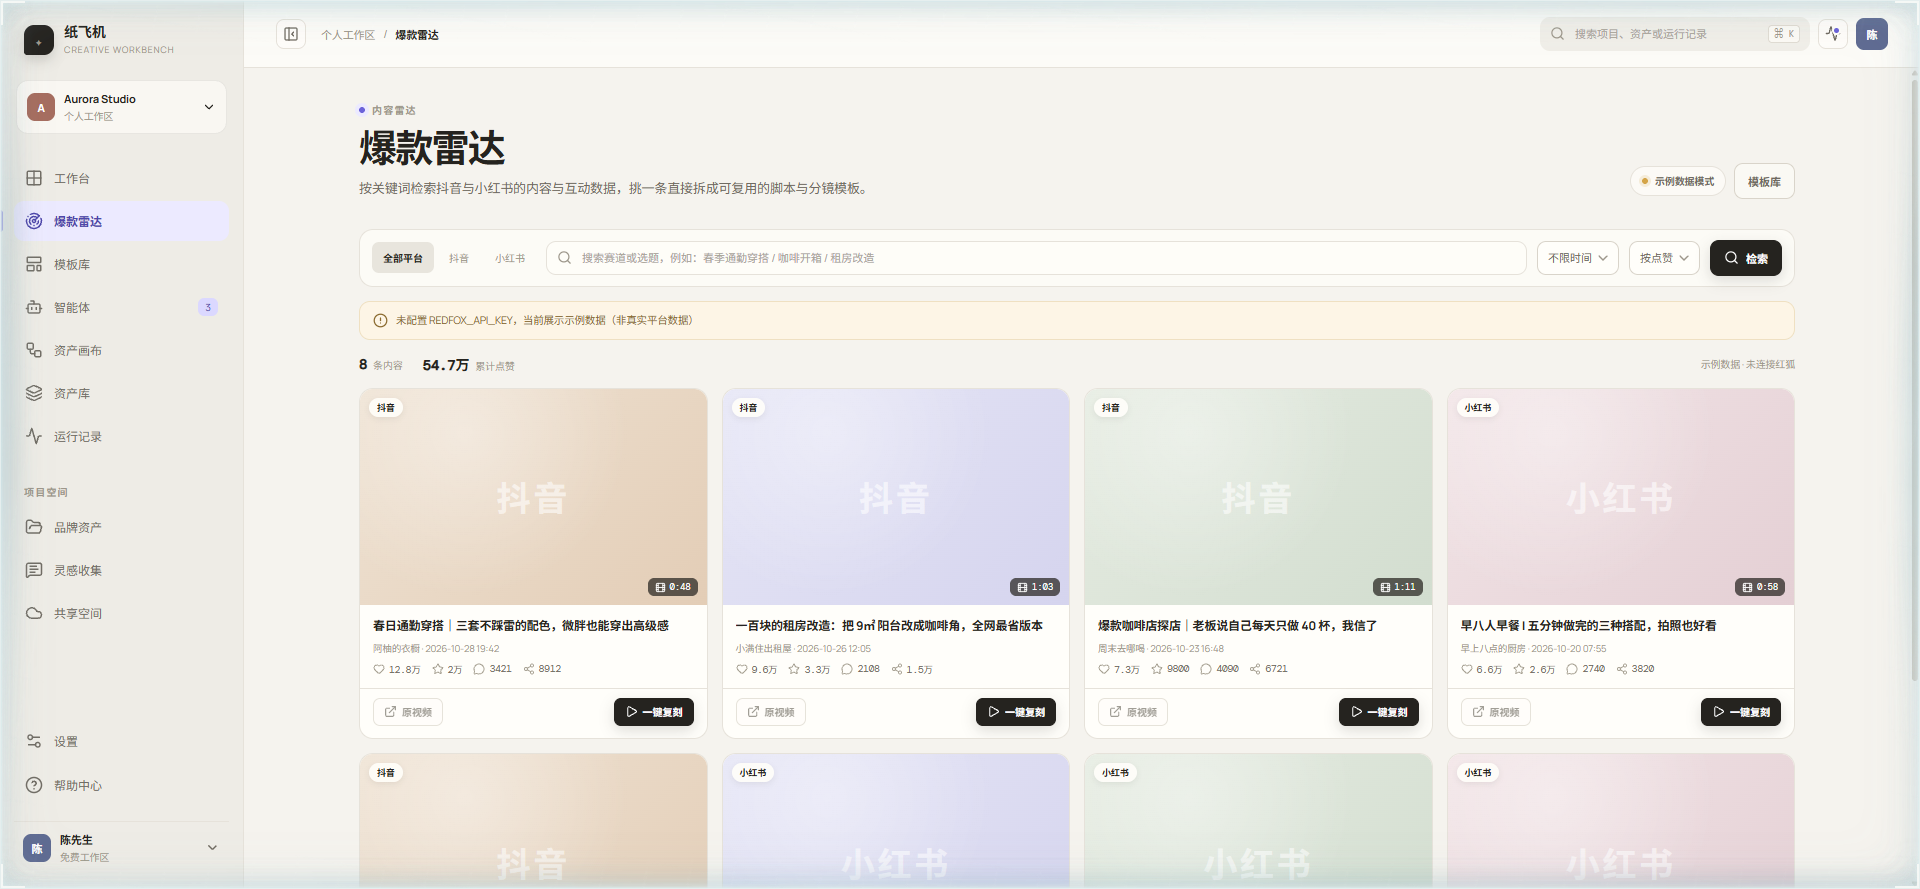
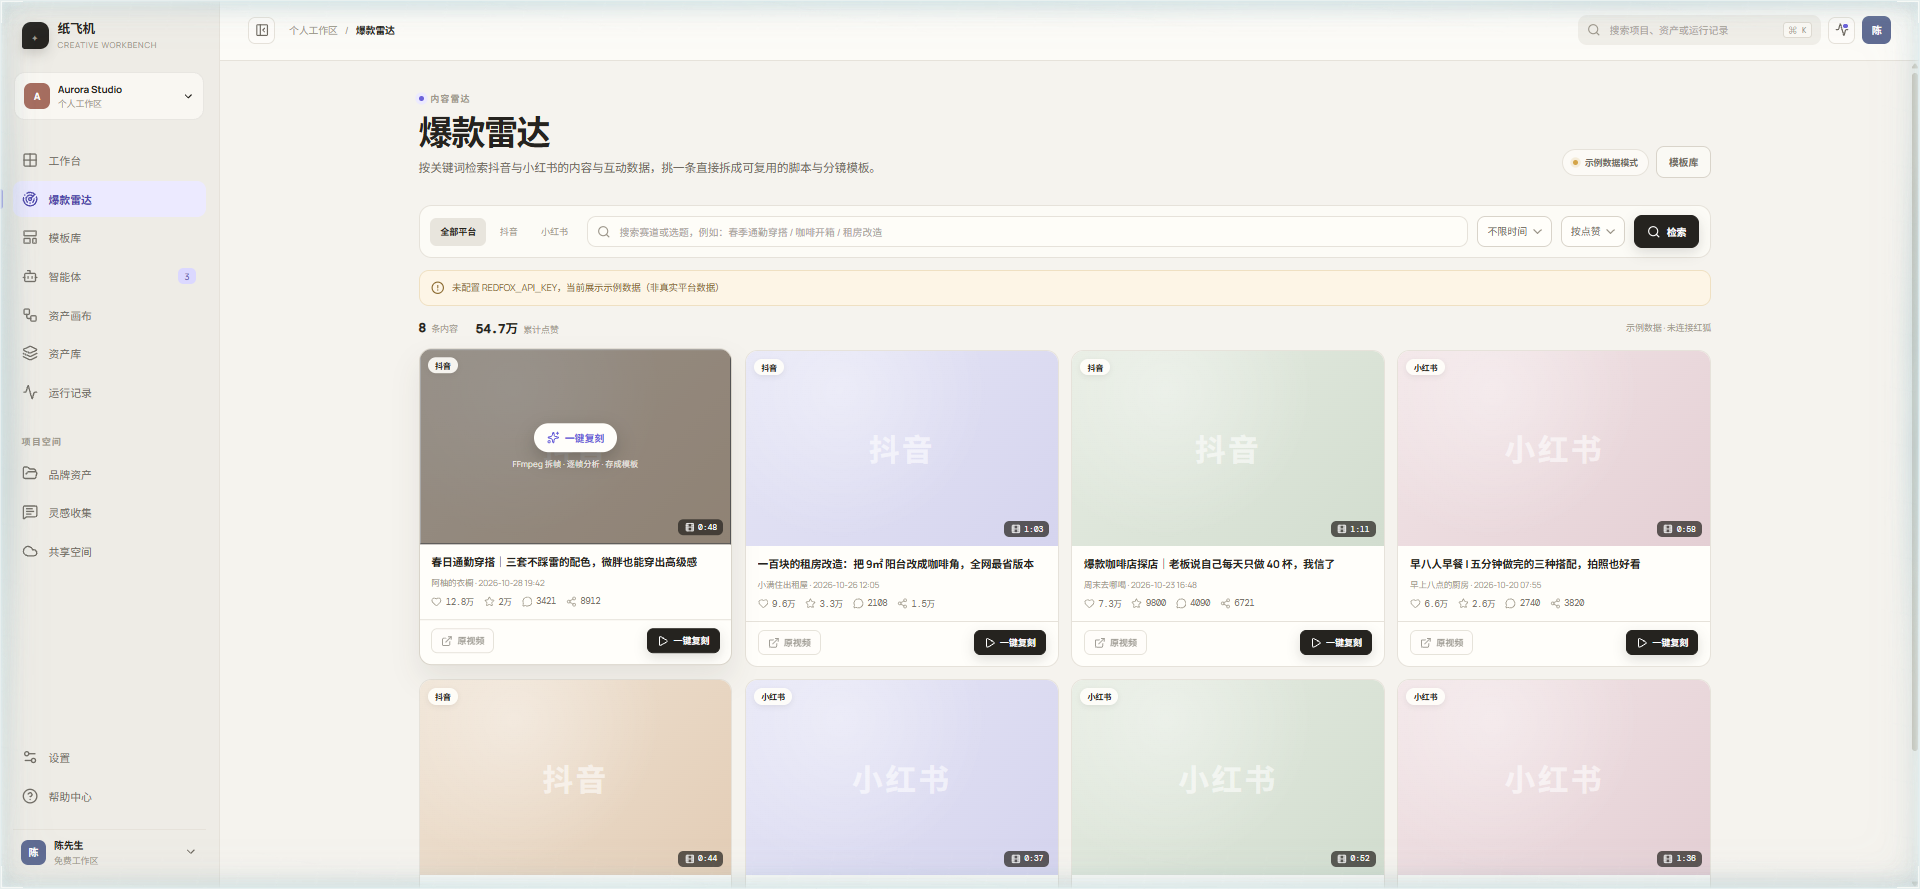
docs: 换成生产构建下的真实截图（悬停复刻、复刻弹窗）

diff --git a/README.md b/README.md
@@ -10,6 +10,8 @@
 
 **1. 爆款雷达**：按平台（抖音 / 小红书 / 全部）、关键词、时间范围检索，卡片展示点赞 / 收藏 / 评论 / 分享与时长；鼠标移到封面直接出「一键复刻」，卡片底部也有常驻入口。
 
+![一键复刻](docs/screenshot-replicate-idle.png)
+
 **2. 一键复刻**：弹窗里选来源（平台原链接，或直接粘 mp4 直链兜底），跑五个可观测步骤：解析视频地址 → 读取视频信息（ffprobe + 场景切镜检测）→ FFmpeg 抽帧 → 逐帧分析脚本与分镜 → 写入模板库。进度条百分比、每步状态、实时日志都在弹窗里。
 
 ![复刻进度](docs/screenshot-replicate-progress.png)
